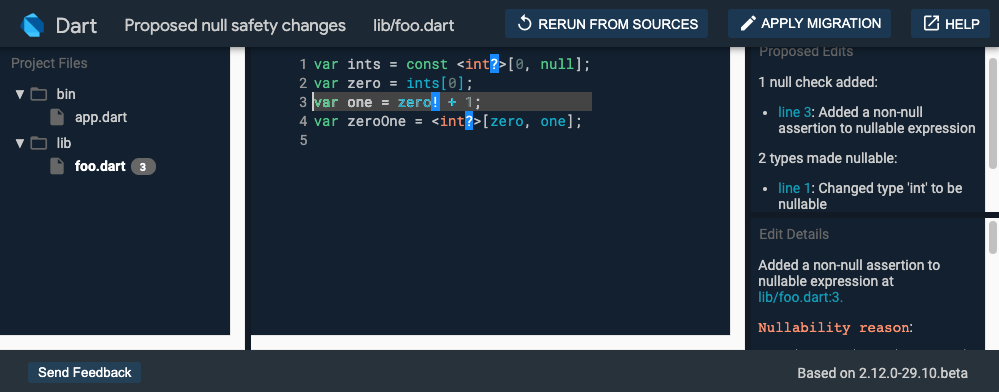
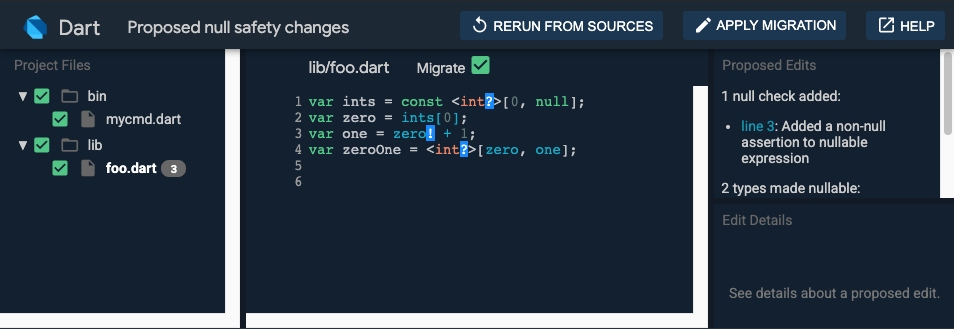
Add info about incremental migration with dart migrate (#3024)

Changed region(s): [[0.0, 0.0, 1.0, 1.0], [0.9727, 0.3951, 1.0, 0.4255], [0.304, 0.5471, 0.3344, 0.5775]]

diff --git a/src/null-safety/unsound-null-safety.md b/src/null-safety/unsound-null-safety.md
@@ -76,12 +76,6 @@ they can only [run with unsound null safety](#analyzing-and-testing).
 Because Dart supports mixed-version programs,
 you can migrate one library (generally one Dart file) at a time,
 while still being able to run your program and its tests.
-If you want to migrate your package file by file,
-the [migration tool][] can help,
-but you'll need to do more by hand.
-
-[migration tool]: /null-safety/migration-guide#step2-migrate
-
 
 We recommend that you **first migrate leaf libraries** —
 libraries that don't import other files from the package.
@@ -98,7 +92,27 @@ If any libraries have cyclic imports
 (for example, A imports B which imports C, and C imports A),
 consider migrating those libraries together.
 
-To migrate a package by hand, follow these steps:
+### Using the migration tool
+
+You can migrate incrementally using the
+[migration tool][].
+To opt out files or directories, click the green checkbox.
+In the following screenshot,
+all files in the `bin` directory are opted out.
+
+![Screenshot of file viewer in migration tool](/null-safety/migration-tool-incremental.png)
+
+[migration tool]: /null-safety/migration-guide#step2-migrate
+
+Each opted out file will be unchanged
+except for a 2.9 [language version comment][].
+You can later run `dart migrate` again to continue the migration.
+Any files that are already migrated feature a disabled checkbox:
+you cannot un-migrate a file once it has been migrated.
+
+### Migrating by hand
+
+If you want to incrementally migrate a package by hand, follow these steps:
 
 1. Edit the package's `pubspec.yaml` file,
    setting the minimum SDK constraint to `2.12.0-0`:

diff --git a/src/null-safety/migration-guide.md b/src/null-safety/migration-guide.md
@@ -324,6 +324,22 @@ var zeroOne = <int>[zero, one];
 </tr>
 </table>
 
+#### Opting out files
+
+Although we recommend migrating all at once,
+sometimes that isn't practical,
+especially in a large app or package.
+To opt out a file or directory,
+click its green checkbox.
+Later, when you apply changes,
+each opted out file will be unchanged
+except for a 2.9 [version comment][].
+
+For more information about incremental migration, see
+[Unsound null safety][].
+
+[version comment]: /guides/language/evolution#per-library-language-version-selection
+
 
 #### Applying changes
 
